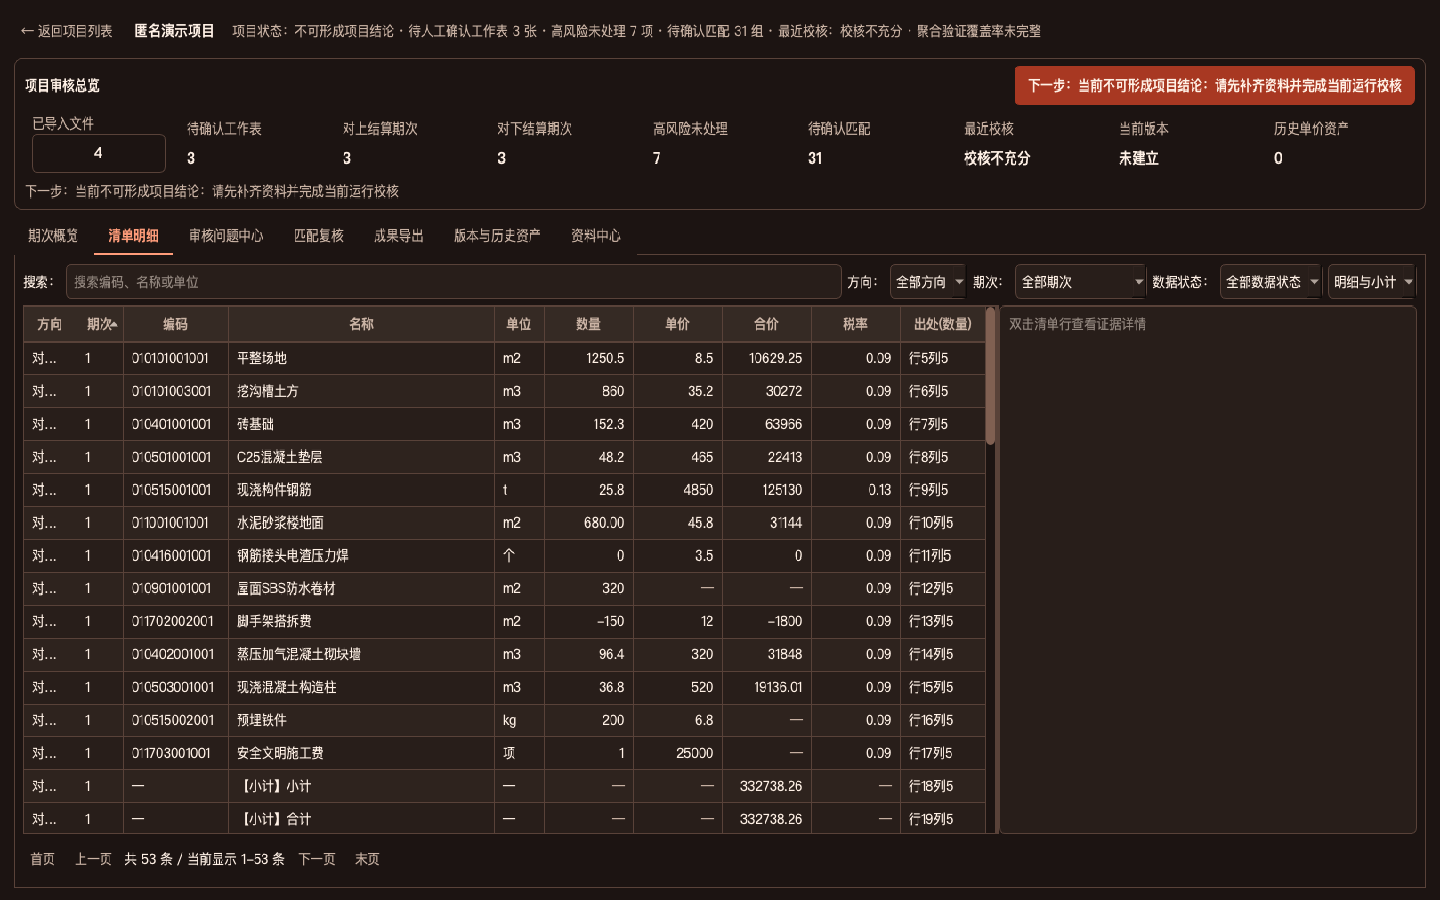
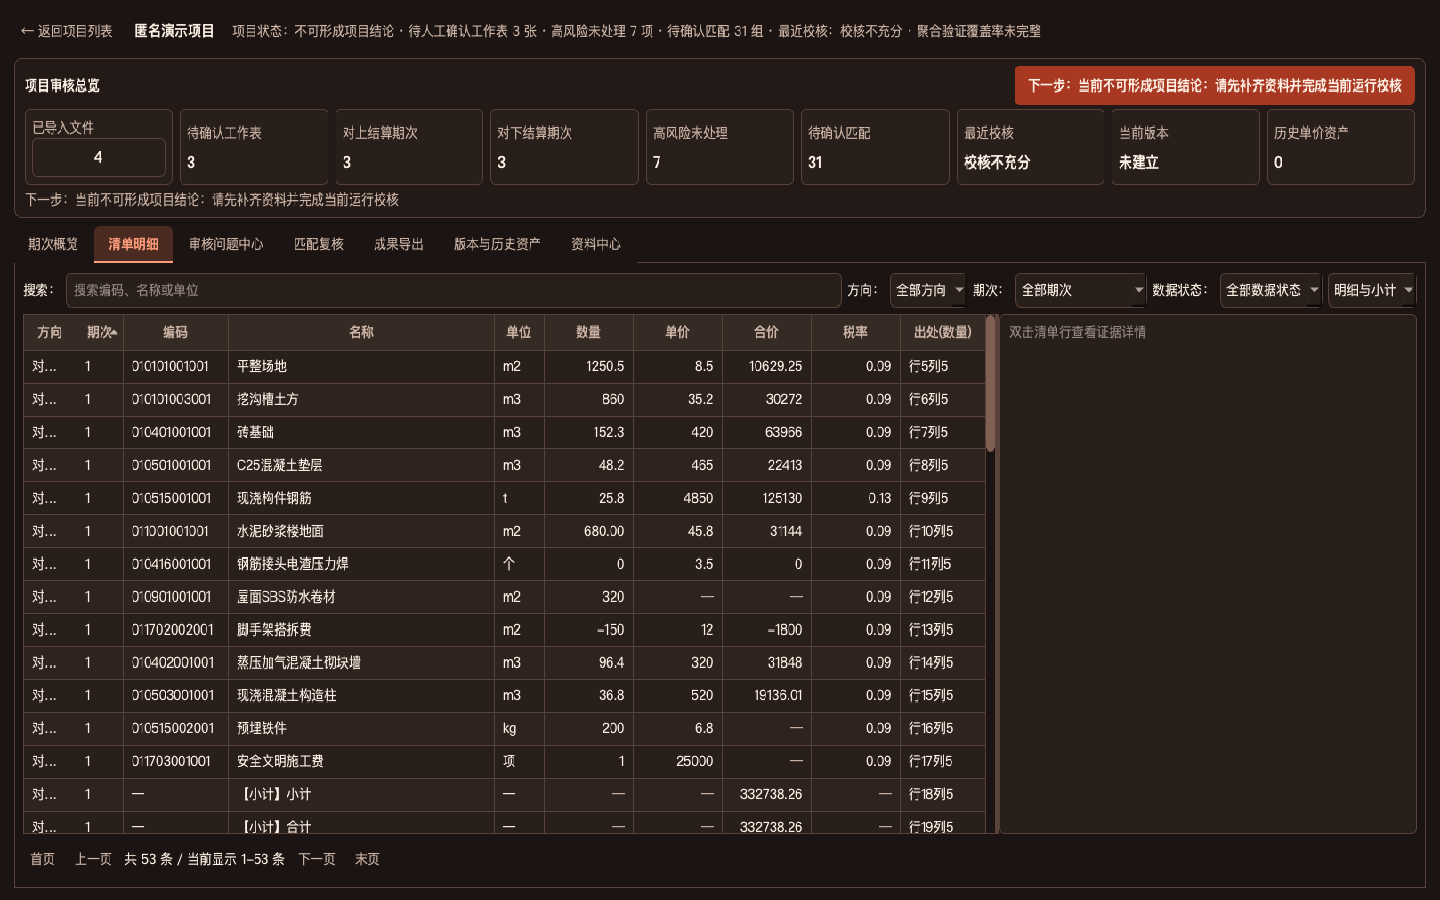
feat(ui): refine cards and control states using Qt theme references

diff --git a/src/jiadun/ui/theme.py b/src/jiadun/ui/theme.py
@@ -17,6 +17,7 @@ from PySide6.QtGui import QColor, QFont, QFontDatabase, QPalette
 # ---- 颜色 token ----
 BG = "#1C1412"          # 暖炭黑页面背景
 SURFACE = "#281E1A"     # 内容面板
+PANEL = "#231916"       # 总览与分组的中间层
 TEXT = "#FFF1E6"        # 暖白主文字
 TEXT_SECONDARY = "#CBB4A5"
 TEXT_DISABLED = "#99877B"
@@ -98,8 +99,15 @@ QWidget {{
 
 QWidget:disabled {{ color: {TEXT_DISABLED}; }}
 QWidget#projectOverview {{
+    background: {PANEL};
     border: 1px solid {BORDER};
     border-radius: 8px;
+}}
+
+QWidget#overviewMetric {{
+    background: {SURFACE};
+    border: 1px solid {BORDER};
+    border-radius: 6px;
 }}
 
 QToolTip {{
@@ -133,10 +141,11 @@ QPushButton {{
     padding: 5px 14px;
     min-height: 26px;
 }}
-QPushButton:hover {{ border-color: {PRIMARY}; color: {PRIMARY}; }}
+QPushButton:hover {{ background: {HOVER_ROW}; border-color: {PRIMARY}; color: {PRIMARY}; }}
 QPushButton:pressed {{ background: {BG}; }}
 QPushButton:disabled {{ color: {TEXT_DISABLED}; border-color: {BORDER}; background: {NEUTRAL_SOFT}; }}
 QPushButton:focus {{ border: 1px solid {PRIMARY}; }}
+QDialogButtonBox QPushButton {{ min-width: 72px; }}
 
 QPushButton#btnPrimary {{
     background: {PRIMARY_FILL};
@@ -181,6 +190,9 @@ QLineEdit, QComboBox, QSpinBox, QDoubleSpinBox, QDateEdit, QTextEdit, QPlainText
 QLineEdit:focus, QComboBox:focus, QSpinBox:focus, QTextEdit:focus, QPlainTextEdit:focus, QDoubleSpinBox:focus, QDateEdit:focus {{
     border: 1px solid {PRIMARY};
 }}
+QLineEdit:disabled, QComboBox:disabled, QSpinBox:disabled, QTextEdit:disabled, QPlainTextEdit:disabled {{
+    background: {NEUTRAL_SOFT}; color: {TEXT_DISABLED};
+}}
 QComboBox QAbstractItemView {{
     background: {SURFACE}; color: {TEXT};
     border: 1px solid {BORDER};
@@ -206,6 +218,7 @@ QTableWidget, QTableView, QTreeView {{
     selection-color: {TEXT};
 }}
 QTableWidget::item {{ padding: 2px 6px; }}
+QTableWidget::item:selected {{ background: {SELECTED_ROW}; color: {TEXT}; }}
 QTableWidget::item:hover {{ background: {HOVER_ROW}; }}
 QHeaderView::section {{
     background: {NEUTRAL_SOFT};
@@ -233,8 +246,12 @@ QTabBar::tab {{
     border-bottom: 2px solid transparent;
     margin-right: 2px;
 }}
-QTabBar::tab:selected {{ color: {PRIMARY}; border-bottom: 2px solid {PRIMARY}; font-weight: 600; }}
-QTabBar::tab:hover:!selected {{ color: {TEXT}; }}
+QTabBar::tab:selected {{
+    background: {PRIMARY_SOFT}; color: {PRIMARY};
+    border-top-left-radius: 6px; border-top-right-radius: 6px;
+    border-bottom: 2px solid {PRIMARY}; font-weight: 600;
+}}
+QTabBar::tab:hover:!selected {{ background: {HOVER_ROW}; color: {TEXT}; }}
 
 /* ---- 列表 ---- */
 QListWidget {{
@@ -250,9 +267,13 @@ QListWidget::item:selected {{ background: {SELECTED_ROW}; color: {TEXT}; }}
 QScrollBar:vertical {{ background: transparent; width: 10px; }}
 QScrollBar::handle:vertical {{ background: {SCROLL_HANDLE}; border-radius: 5px; min-height: 32px; }}
 QScrollBar::handle:vertical:hover {{ background: {TEXT_DISABLED}; }}
-QScrollBar::add-line, QScrollBar::sub-line {{ height: 0; }}
+/* PyQtDarkTheme 的轨道/滑块状态分离方式，来源见 docs/UI_THEME_REFERENCES.md。 */
+QScrollBar::add-line, QScrollBar::sub-line {{ width: 0; height: 0; }}
+QScrollBar::add-page, QScrollBar::sub-page {{ background: transparent; }}
 QScrollBar:horizontal {{ background: transparent; height: 10px; }}
 QScrollBar::handle:horizontal {{ background: {SCROLL_HANDLE}; border-radius: 5px; min-width: 32px; }}
+QScrollBar::handle:horizontal:hover {{ background: {TEXT_DISABLED}; }}
+QScrollBar::handle:vertical:pressed, QScrollBar::handle:horizontal:pressed {{ background: {PRIMARY}; }}
 
 QSplitter::handle {{ background: {BORDER}; }}
 QGroupBox {{

diff --git a/tests/unit/test_theme_labels.py b/tests/unit/test_theme_labels.py
@@ -49,7 +49,8 @@ def test_dark_theme_text_contrast():
 
     for foreground, background in (
         (theme.TEXT, theme.BG), (theme.TEXT, theme.SURFACE),
-        (theme.TEXT_SECONDARY, theme.SURFACE), (theme.TEXT, theme.SELECTED_ROW),
+        (theme.TEXT_SECONDARY, theme.SURFACE), (theme.TEXT_SECONDARY, theme.PANEL),
+        (theme.PRIMARY, theme.PRIMARY_SOFT), (theme.TEXT, theme.SELECTED_ROW),
         (theme.TEXT, theme.PRIMARY_FILL), (theme.TEXT, theme.PRIMARY_HOVER),
         (theme.TEXT, theme.PRIMARY_PRESSED), (theme.PRIMARY, theme.SURFACE),
         (theme.SUCCESS, theme.SUCCESS_SOFT), (theme.WARNING, theme.WARNING_SOFT),

diff --git a/src/jiadun/ui/workbench.py b/src/jiadun/ui/workbench.py
@@ -694,8 +694,9 @@ class WorkbenchPage(QWidget):
             ("historical_prices", "历史单价资产"),
         ):
             card = QWidget()
+            card.setObjectName("overviewMetric")
             cv = QVBoxLayout(card)
-            cv.setContentsMargins(theme.SP_S, theme.SP_XS, theme.SP_S, theme.SP_XS)
+            cv.setContentsMargins(theme.SP_S, theme.SP_S, theme.SP_S, theme.SP_S)
             cv.setSpacing(0)
             caption = QLabel(label)
             caption.setStyleSheet(f"color: {theme.TEXT_SECONDARY}; background: transparent;")

diff --git a/docs/UI_THEME_REFERENCES.md b/docs/UI_THEME_REFERENCES.md
@@ -1,0 +1,49 @@
+# 工作台主题参考记录（v0.1.32）
+
+本轮采用现有 PySide6 / Qt Fusion / QPalette / QSS 实现，保持暖炭黑与红橙配色。
+未引入新的主题运行库。应用内界面采用固定主题；系统文件选择器沿用系统设置。
+
+## 已采用的方法
+
+- PyQtDarkTheme：QPalette 与 QSS 配合，区分背景层、输入框、选中态、悬停态、
+  滚动条轨道与滑块。将同一套状态处理方式落实到价盾现有全局主题。
+- QDarkStyleSheet：补齐水平/垂直滚动条的一致状态、禁用输入与弹窗按钮的尺寸约束。
+- 总览以中间色面板承载九张指标卡片，卡片沿用现有布局和系统字体；业务数据与
+  状态文字不变。当前选中标签使用暖红底与珊瑚橙下划线。
+
+## 来源快照
+
+- [PyQtDarkTheme](https://github.com/5yutan5/PyQtDarkTheme)，MIT；
+  核对提交 `96eb7e368039ab446952573bafc17d54b7ef5123`，
+  `style/base.qss`、`style/colors/themes/dark.json` 与 palette 用法。
+- [QDarkStyleSheet](https://github.com/ColinDuquesnoy/QDarkStyleSheet)，代码 MIT；
+  核对提交 `6f3962e63749893f951be73ebfec93e83fffebf2`，
+  `qdarkstyle/dark/darkstyle.qss` 与 `LICENSE.rst`。
+- [PyQt-Fluent-Widgets](https://github.com/zhiyiYo/PyQt-Fluent-Widgets) 已查看，
+  本轮未复制其代码或加入依赖。
+
+配色与卡片 QSS 按价盾现有 token 独立编写；滚动条轨道及状态规则参考上述项目。
+未复制第三方图标或图片。下方保留被参考样式代码的 MIT 通知。
+
+## MIT 通知
+
+Copyright (c) 2021-2022 Yunosuke Ohsugi
+Copyright (c) 2013-2019 Colin Duquesnoy
+
+Permission is hereby granted, free of charge, to any person obtaining a copy
+of this software and associated documentation files (the "Software"), to deal
+in the Software without restriction, including without limitation the rights
+to use, copy, modify, merge, publish, distribute, sublicense, and/or sell
+copies of the Software, and to permit persons to whom the Software is
+furnished to do so, subject to the following conditions:
+
+The above copyright notice and this permission notice shall be included in all
+copies or substantial portions of the Software.
+
+THE SOFTWARE IS PROVIDED "AS IS", WITHOUT WARRANTY OF ANY KIND, EXPRESS OR
+IMPLIED, INCLUDING BUT NOT LIMITED TO THE WARRANTIES OF MERCHANTABILITY,
+FITNESS FOR A PARTICULAR PURPOSE AND NONINFRINGEMENT. IN NO EVENT SHALL THE
+AUTHORS OR COPYRIGHT HOLDERS BE LIABLE FOR ANY CLAIM, DAMAGES OR OTHER
+LIABILITY, WHETHER IN AN ACTION OF CONTRACT, TORT OR OTHERWISE, ARISING FROM,
+OUT OF OR IN CONNECTION WITH THE SOFTWARE OR THE USE OR OTHER DEALINGS IN THE
+SOFTWARE.

diff --git a/CHANGELOG.md b/CHANGELOG.md
@@ -15,6 +15,10 @@ All notable changes. Format based on Keep a Changelog; versioning: SemVer.
 
 ### Changed
 
+- 参考 PyQtDarkTheme 与 QDarkStyleSheet 的分层配色和控件状态处理，增加总览指标卡片、
+  标签页选中底色、输入禁用态、横向滚动条悬停与按下态；来源见
+  [主题参考记录](docs/UI_THEME_REFERENCES.md)。
+
 - 项目列表、七个工作台标签页、表格、按钮、选中态、输入框、菜单、进度条及弹窗
   统一为暖炭黑与红橙色系；成功、警告与风险徽章保持独立语义。
 - Qt Fusion 与统一 palette 覆盖原生箭头、复选框等控件，清除项目卡片硬编码旧色。
